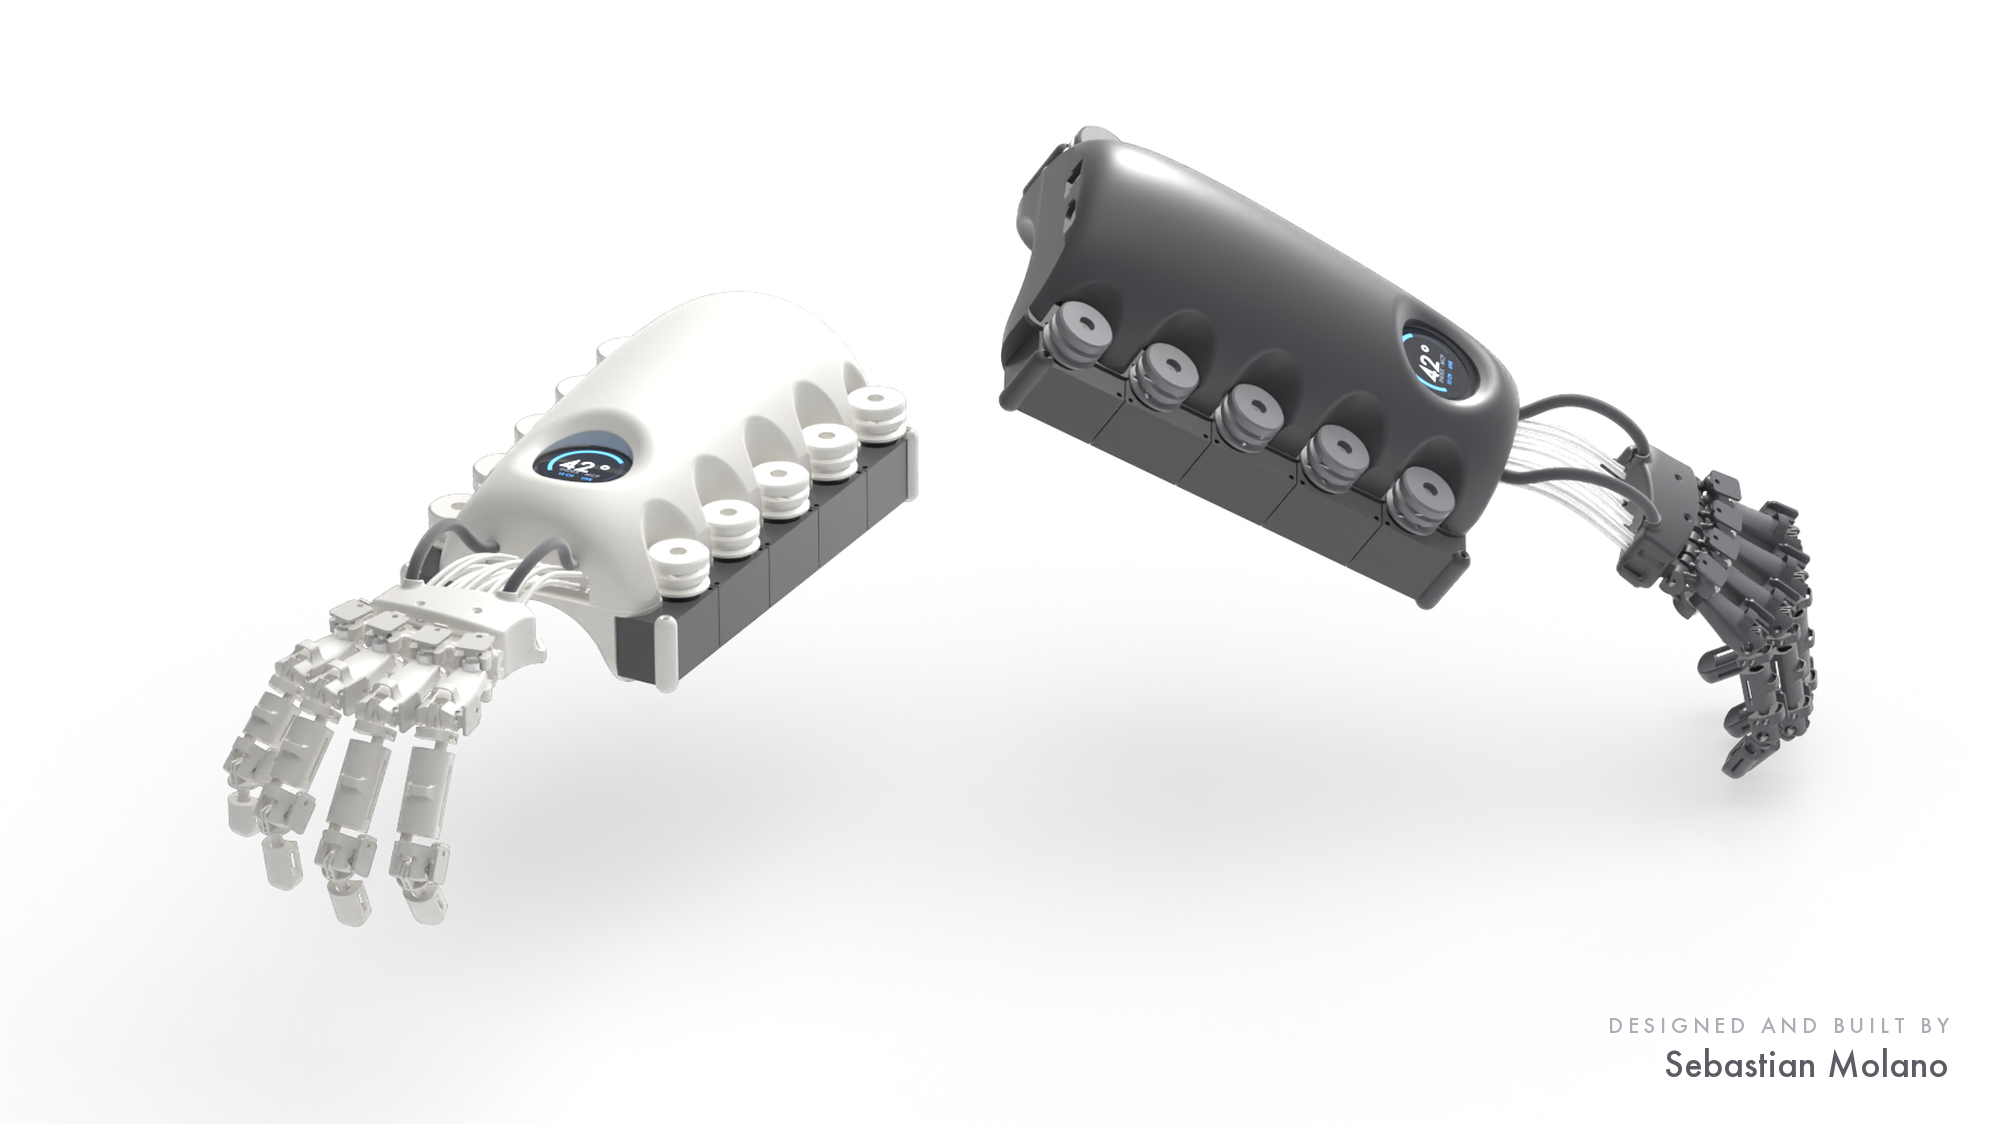
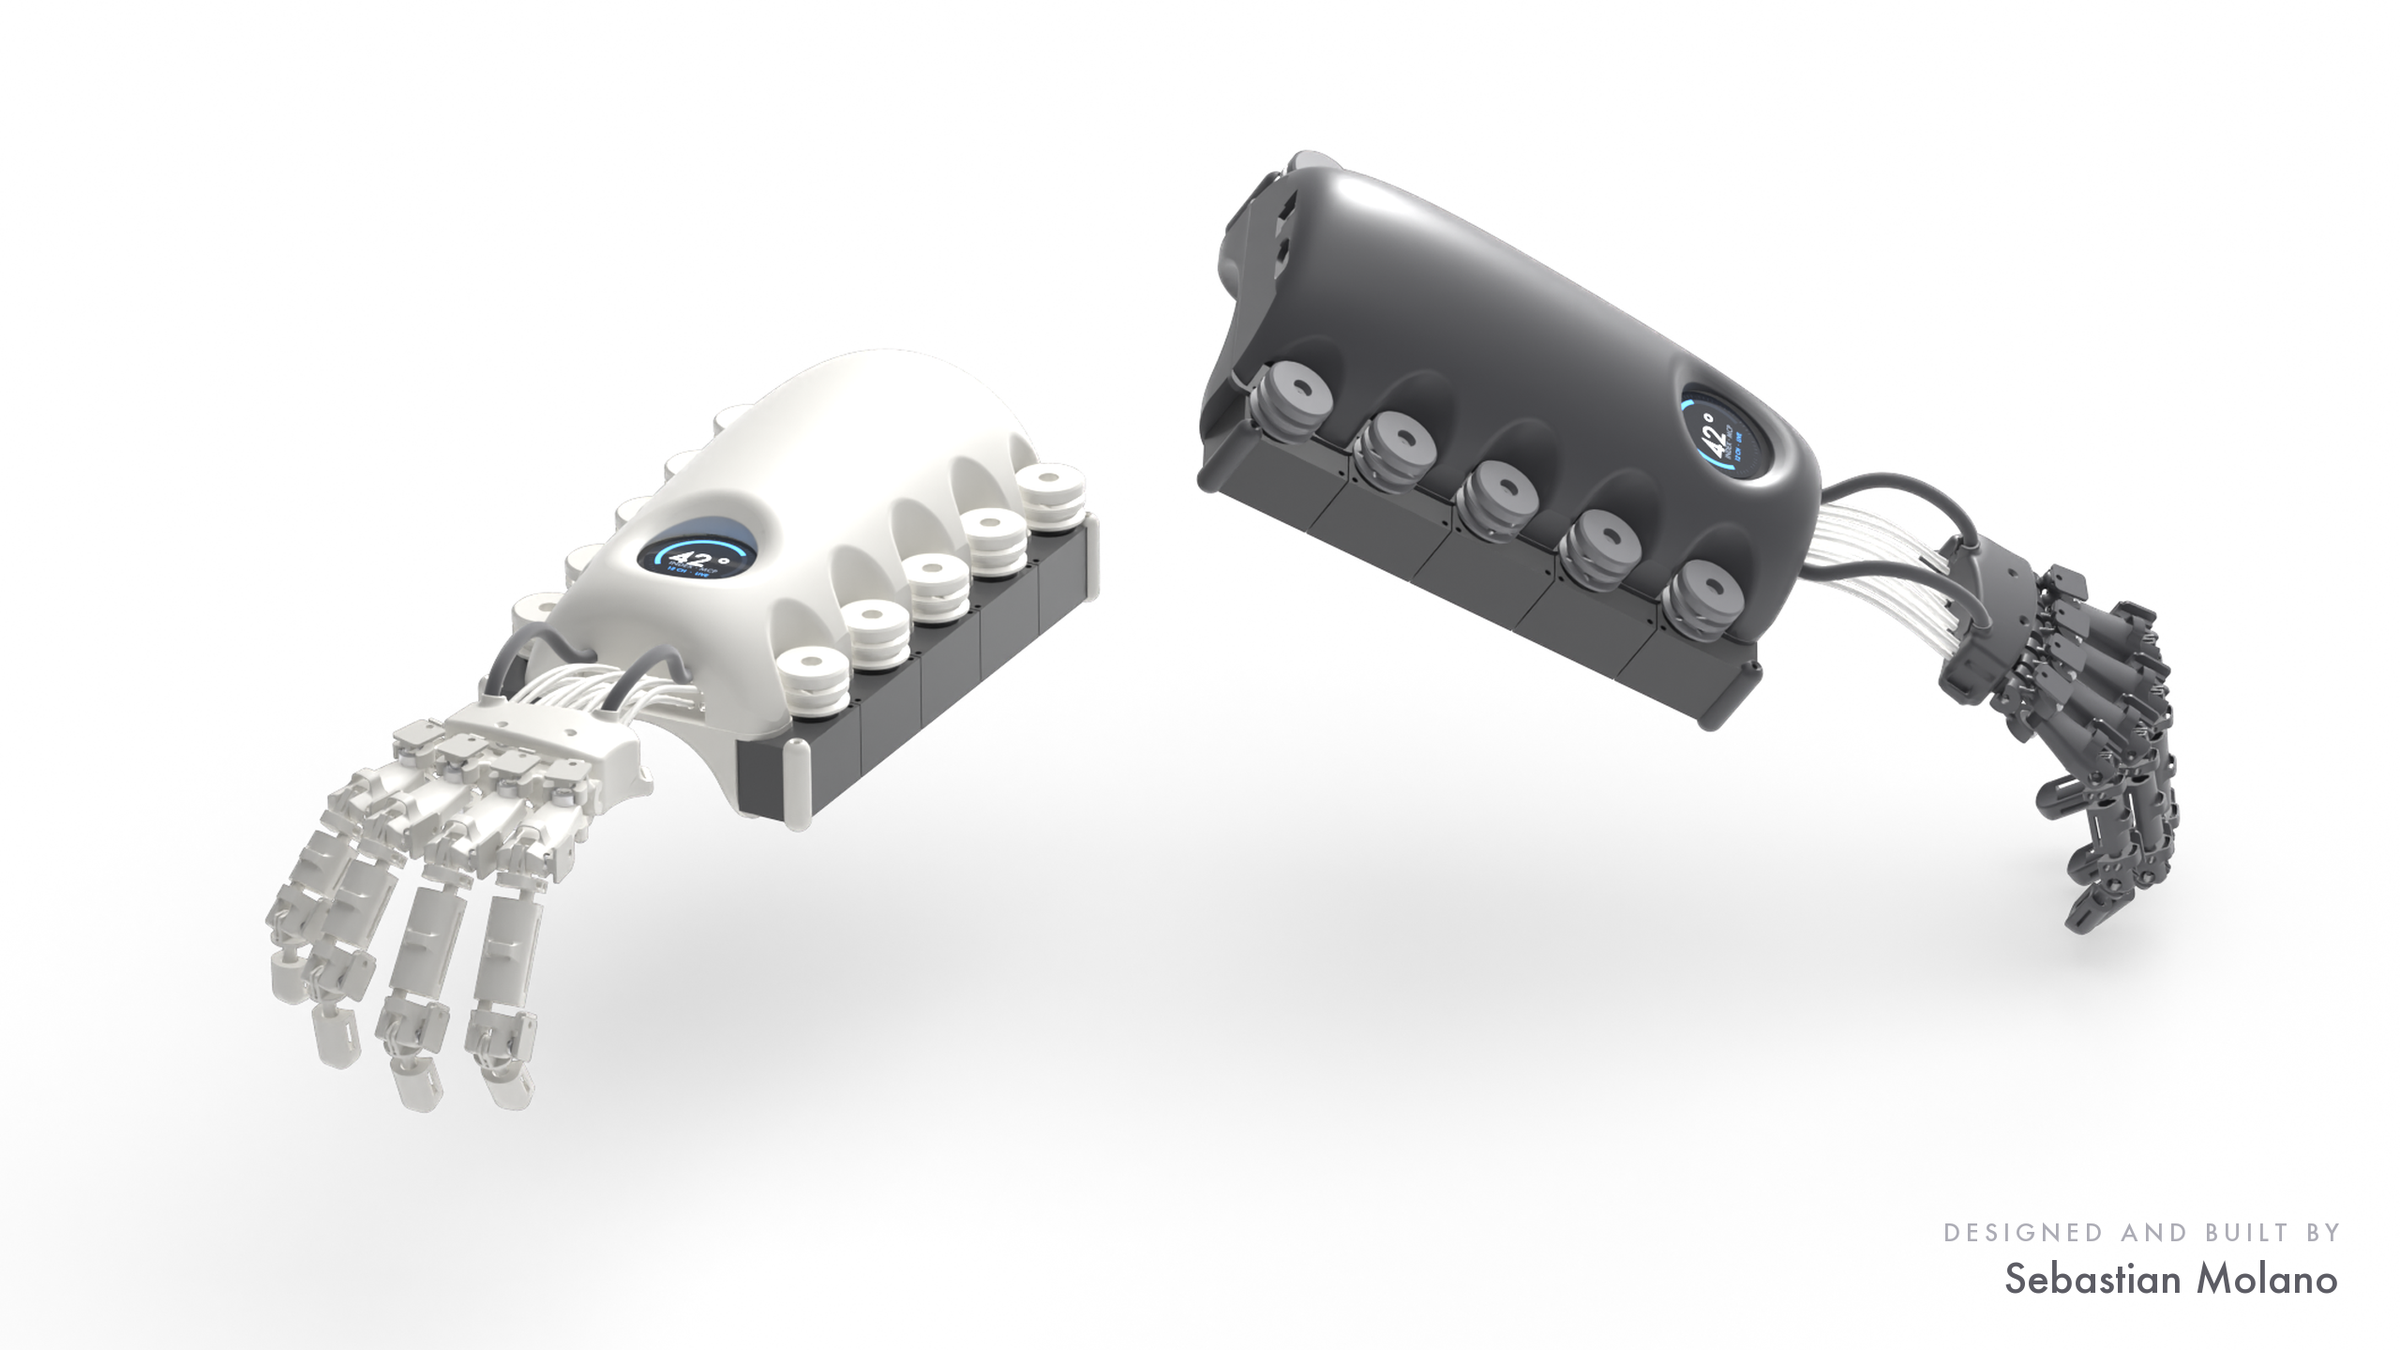
Final HD renders
Hero rendered at 3000x2020 and delivered at 2400px; colourways at 1500x2120
each, composed on a 3200x1800 sheet and delivered at 2400px. Both carry every
correction from this pass: one casting light, measured shadow footprint, feathered
panel edges, Snow set 18 levels below the page, and the authorship mark sized
for how GitHub renders the file.

Sample counts were deliberately not pushed higher. With adaptive sampling and
denoising, 140 samples is already clean, and a first attempt at 260 spent
twenty minutes to produce nothing visibly different. The budget went to
resolution, which is what actually shows.

diff --git a/README.md b/README.md
@@ -166,46 +166,47 @@ The embedded Dynamixel driver is also maintained standalone as
 
 ---
 
----
-
 ## The software that ships with it
 
-Four surfaces, all reading the same live stream from the device, the browser sees it at 60 Hz,
-which is a display rate, not the device's limit (see [On rates](#a-note-on-rates)). All of them run with **no
-hardware at all**, the bridge's `--sim` mode feeds synthetic joints, so you can explore the
-whole stack before you print a single part.
-
-<table>
-<tr>
-<td width="50%"><img src="docs/media/web-hero.gif" alt="Web front end" width="100%"></td>
-<td width="50%"><img src="docs/media/ui-console.png" alt="Operator console" width="100%"></td>
-</tr>
-<tr>
-<td align="center"><sub><b>Web front end</b>, the project's public face</sub></td>
-<td align="center"><sub><b>Operator console</b>, live 3D twin, per-joint encoders, motor state, calibration</sub></td>
-</tr>
-</table>
+Two browser surfaces, one data path. Both run with **no hardware at all**, the bridge's `--sim`
+mode feeds synthetic joints, so you can explore the whole stack before you print a single part.
+The browser sees the stream at 60 Hz, which is a display rate, not the device's limit (see
+[On rates](#a-note-on-rates)). Every twin below renders the same articulated geometry that
+ships in [`cad/`](cad/).
 
 <div align="center">
 
-<img src="docs/media/web-scroll.gif" alt="Scrolling the web front end" width="72%">
+<img src="docs/media/ui-web.gif" alt="The public front end, scrolled through its opening beats" width="100%">
 
-<sub>The front end, top to bottom</sub>
+<sub><b>The public front end.</b> One scroll-driven story: the device turns, the fingers move,
+and each claim sits next to the part of the machine that makes it.</sub>
 
 </div>
 
-<table>
-<tr>
-<td width="62%"><img src="docs/media/ui-ar.png" alt="AR layer" width="100%"></td>
-<td width="38%"><img src="docs/media/ui-android.png" alt="Android companion" width="100%"></td>
-</tr>
-<tr>
-<td align="center"><sub><b>AR layer</b>, the hand twin and capture, touch and rhythm modules in space</sub></td>
-<td align="center"><sub><b>Android companion</b>, sessions and twin on a phone</sub></td>
-</tr>
-</table>
+<div align="center">
 
-> **The AR layer and the Android companion are working prototypes, not polished products.** The
+<img src="docs/media/ui-console.gif" alt="The operator console with the live twin articulating" width="100%">
+
+<sub><b>The operator console.</b> Live 3D twin, twelve per-joint encoders, motor state, EMG
+effort, current draw, the device's own round screen, and calibration. Shown on the simulator,
+which is why the encoder column is populated and the link reads <i>mock</i>.</sub>
+
+</div>
+
+### Built on the same stream, not in this release
+
+<div align="center">
+
+<img src="docs/media/ui-prototypes.png" alt="Three views of the AR layer beside the Android companion" width="100%">
+
+<sub><b>AR layer</b> — the worn hand twin, the touch module, and capture, shown in the desktop
+preview of the headset scene &nbsp;·&nbsp; <b>Android companion</b> — sessions and the twin on a
+phone, in practice mode.</sub>
+
+</div>
+
+> **The AR layer and the Android companion are working prototypes, not polished products,** and
+> the images above are simulator and emulator captures rather than a headset or a handset. The
 > Android source is not in this release; the sign-language stack is not either. Everything else
 > shown here is included.
 >
